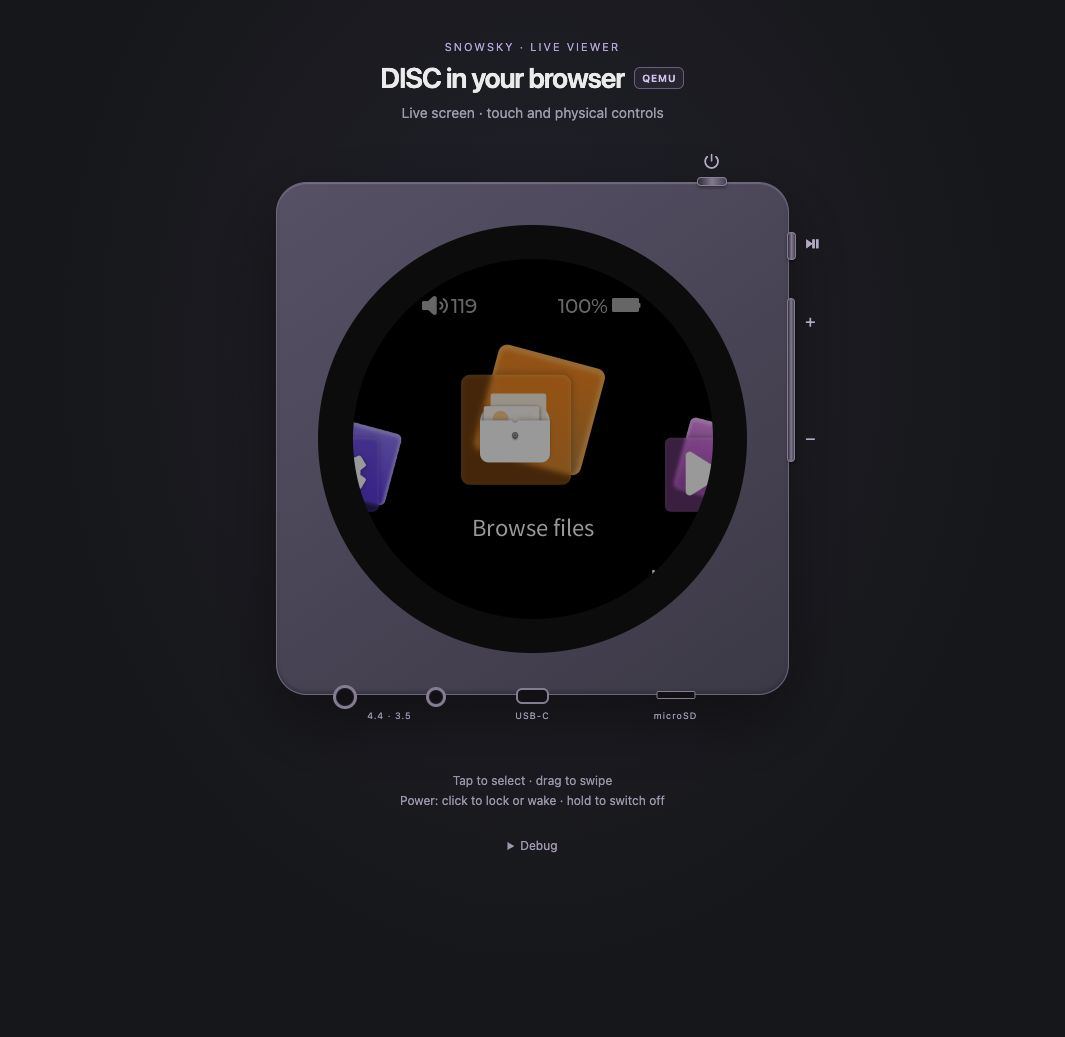
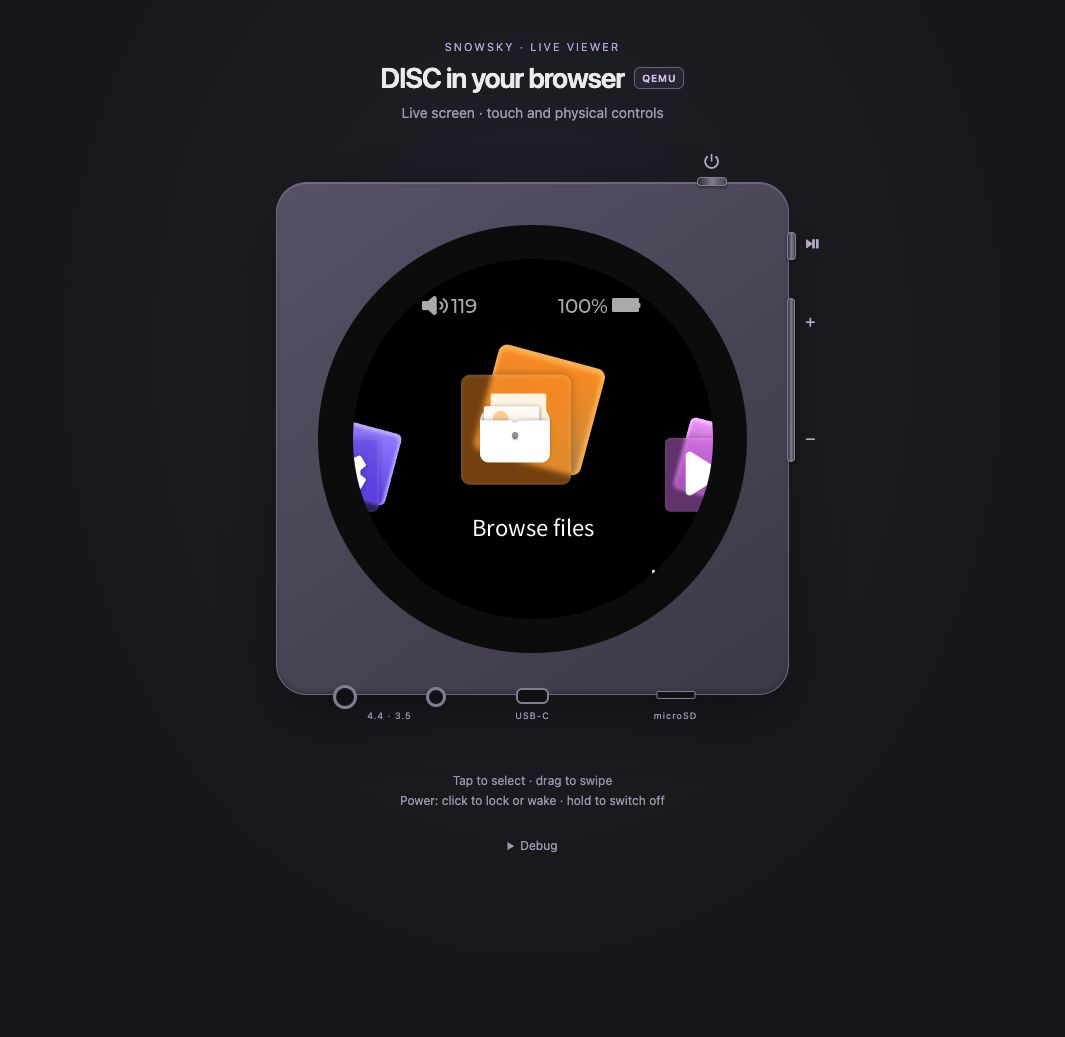
Match README Viewer screenshot brightness to WASM capture

diff --git a/docs/images/README.md b/docs/images/README.md
@@ -10,6 +10,11 @@ during the documentation refresh.
   of the CSS device and live V2.57 screen, physical edge buttons and bottom
   audio/USB/SD connectors; Debug collapsed and QEMU badge visible. The body has no
   logo or lettering. This replaces the earlier photo-skin presentation.
+  Recaptured with the stock shade brightness slider at its maximum (40), verified
+  as `brightness(1)` in the Viewer, so its screen is comparable to the WASM
+  capture, which does not yet apply backlight brightness. The earlier capture
+  used a lower Viewer brightness and appeared darker. No image brightening was
+  applied after capture.
 
 The final approved page UI was captured at a 1065×1037 browser viewport on
 2026-09-17. The Viewer and WASM overview screenshots use the same viewport and

diff --git a/docs/VIEWER.md b/docs/VIEWER.md
@@ -10,7 +10,8 @@ The **QEMU** badge distinguishes this host-backed Viewer from the
 ![Current V2.57 browser viewer](images/readme-viewer-qemu.png)
 
 *Actual browser capture, 2026-09-17: CSS device with live V2.57 screen and
-physical, audio, USB and SD controls. Debug is collapsed.*
+physical, audio, USB and SD controls. Debug is collapsed; stock brightness is at
+maximum for comparison with the WASM screenshot. [Capture details](images/README.md).*
 
 ```sh
 ./run.sh boot          # start the guests (they now stay alive ~30 min, see GUEST_TTL)
